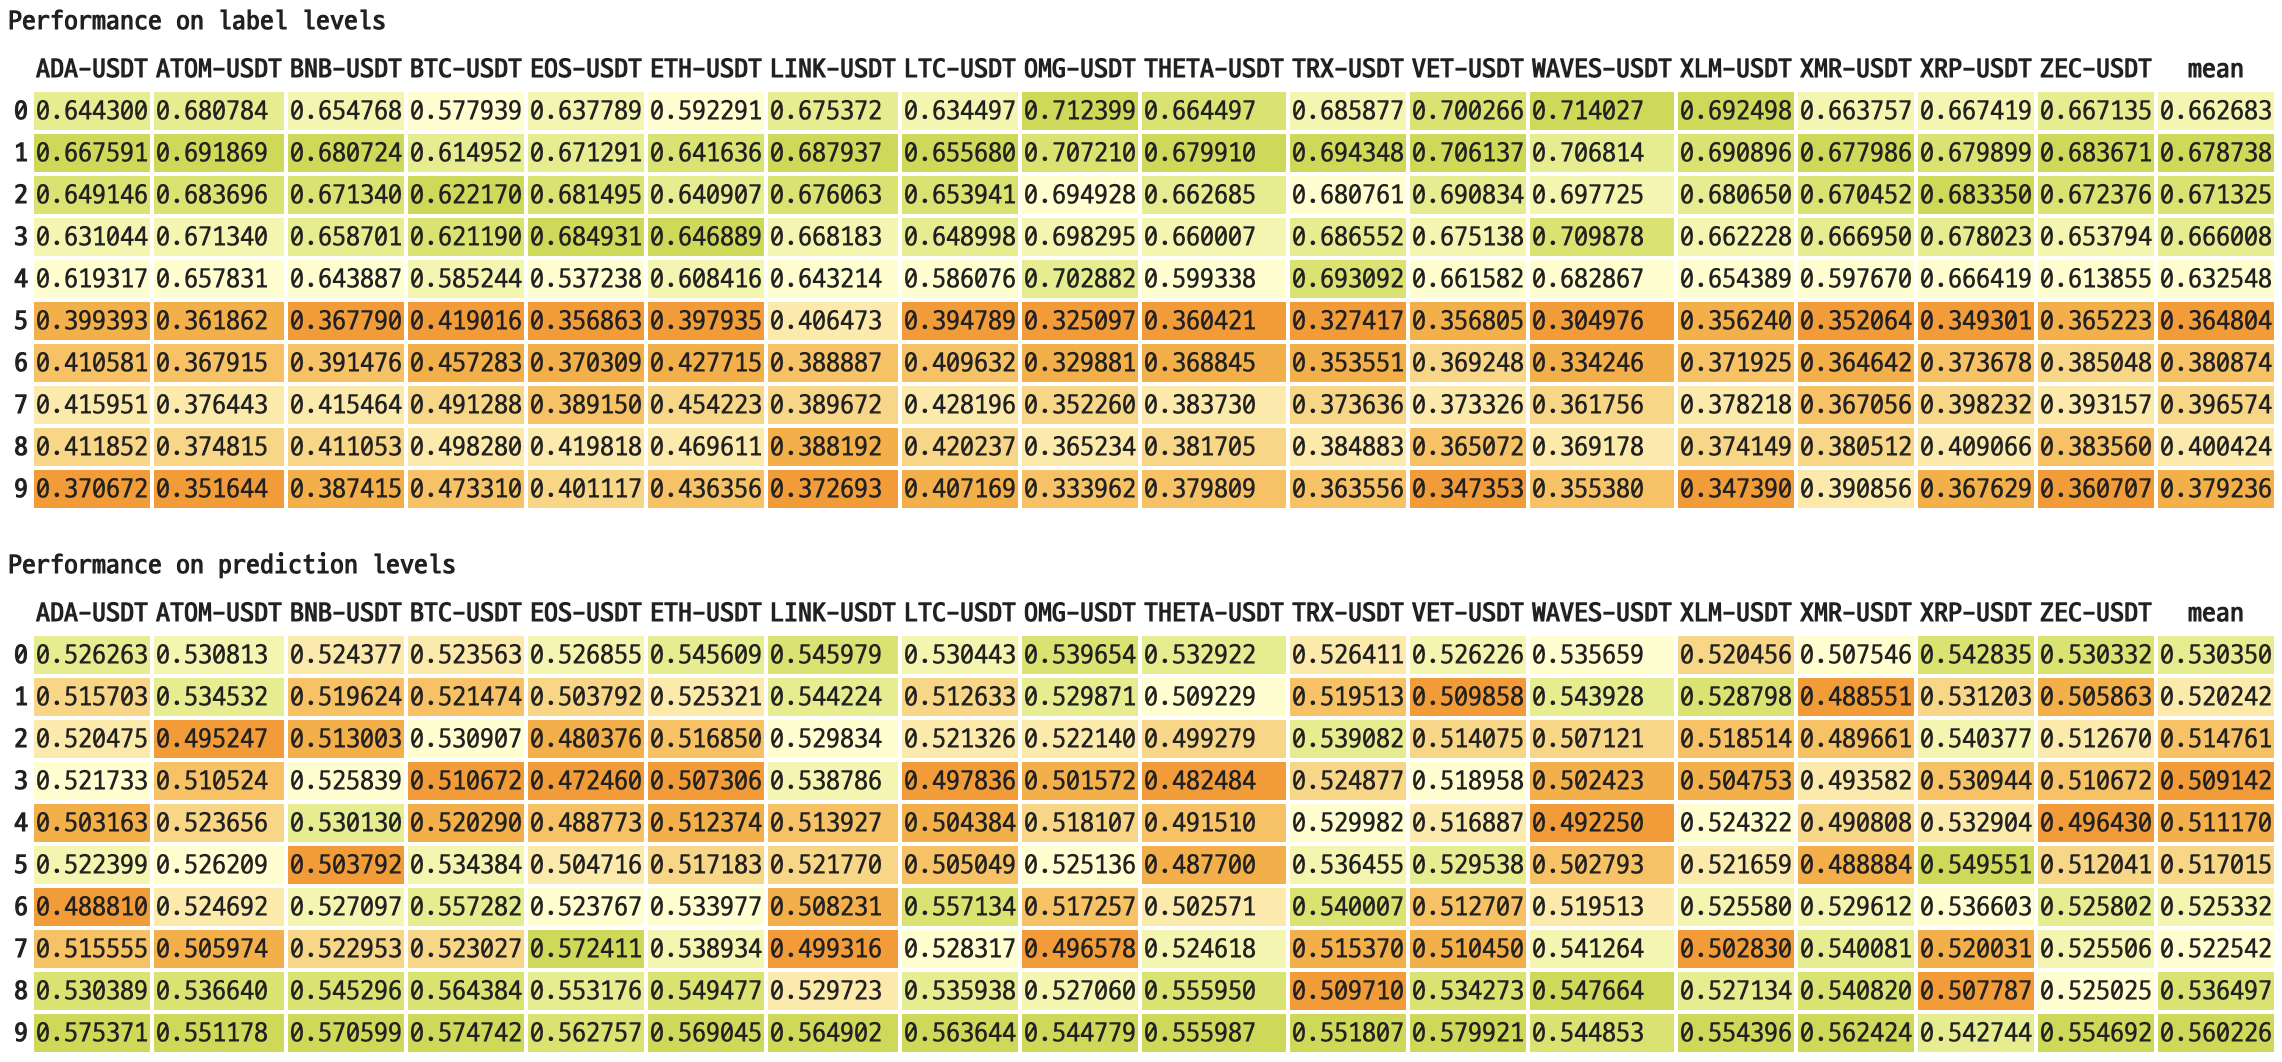
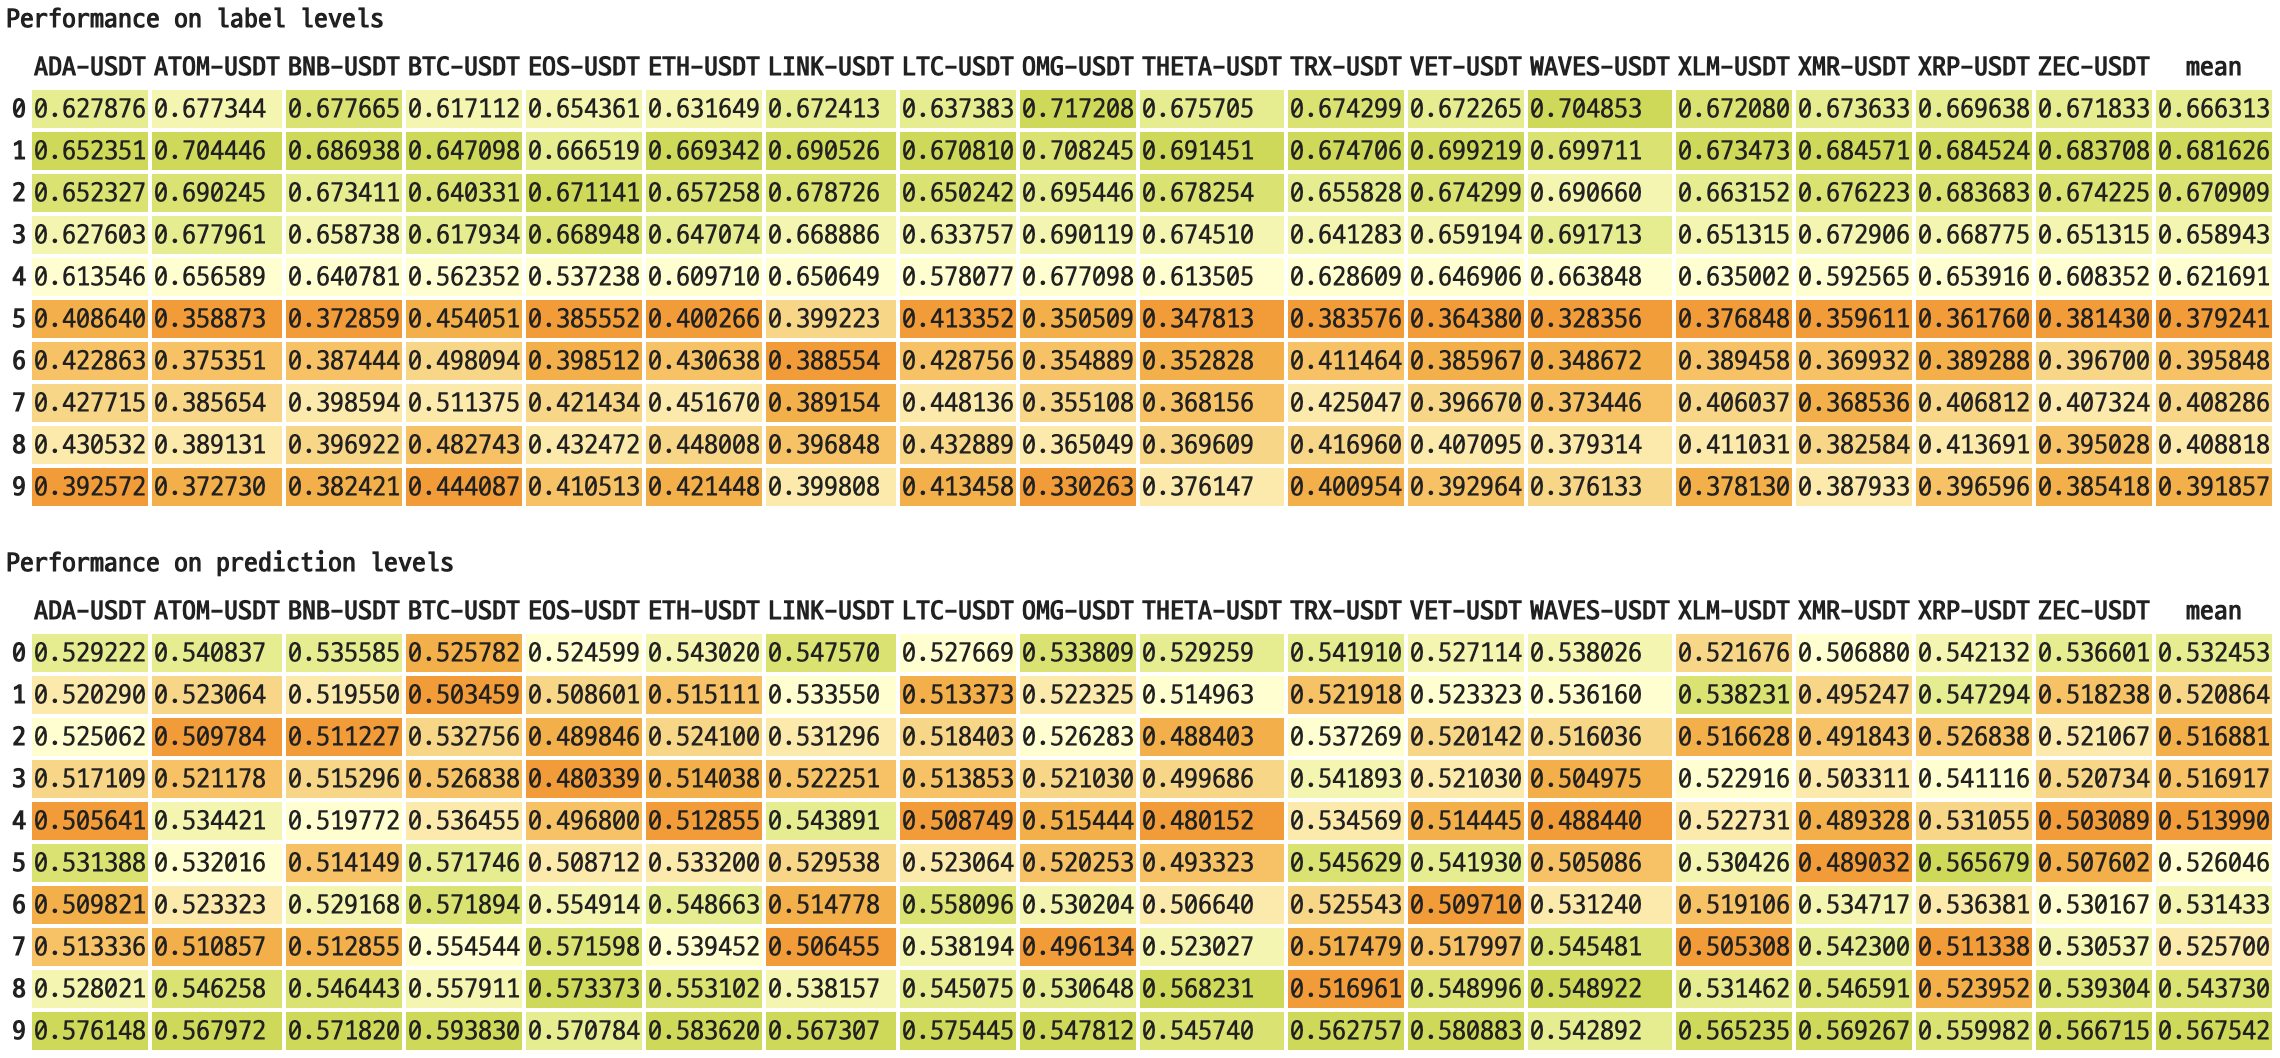
update performance

diff --git a/develop/src/trainer/models/basic_predictor.py b/develop/src/trainer/models/basic_predictor.py
@@ -37,7 +37,7 @@ MODEL_CONFIG = {
     "lookback_window": 120,
     "batch_size": 512,
     "lr": 0.0001,
-    "epochs": 15,
+    "epochs": 10,
     "print_epoch": 1,
     "print_iter": 50,
     "save_epoch": 1,

diff --git a/develop/src/trainer/models/predictor_v1.py b/develop/src/trainer/models/predictor_v1.py
@@ -28,7 +28,7 @@ MODEL_CONFIG = {
     "lookback_window": 120,
     "batch_size": 512,
     "lr": 0.0001,
-    "epochs": 15,
+    "epochs": 10,
     "print_epoch": 1,
     "print_iter": 50,
     "save_epoch": 1,

diff --git a/develop/src/trainer/models/stack_predictor_v1.py b/develop/src/trainer/models/stack_predictor_v1.py
@@ -32,7 +32,7 @@ MODEL_CONFIG = {
     "lookback_window": 149,
     "batch_size": 512,
     "lr": 0.0001,
-    "epochs": 15,
+    "epochs": 10,
     "print_epoch": 1,
     "print_iter": 50,
     "save_epoch": 1,

diff --git a/README.md b/README.md
@@ -119,11 +119,11 @@ Binance future trader deals in multiple cryptocurrencies simultaneously. In defa
 The results below are after the commission was paid to the exchange.
 Backtesting setting `Commisions: {"entry": 0.04%, "exit": 0.02% | 0.04%, "spread": 0.04%}`
 ```
-trade_winning_ratio    0.675651
-trade_sharpe_ratio     2.173517
-trade_avg_return       0.002408
-max_drawdown          -0.168535
-total_return           1.163337
+trade_winning_ratio    0.666444
+trade_sharpe_ratio     1.692926
+trade_avg_return       0.001859
+max_drawdown          -0.175406
+total_return           1.578512
 ```
 ![Performance4](images/performance4.png)
 
